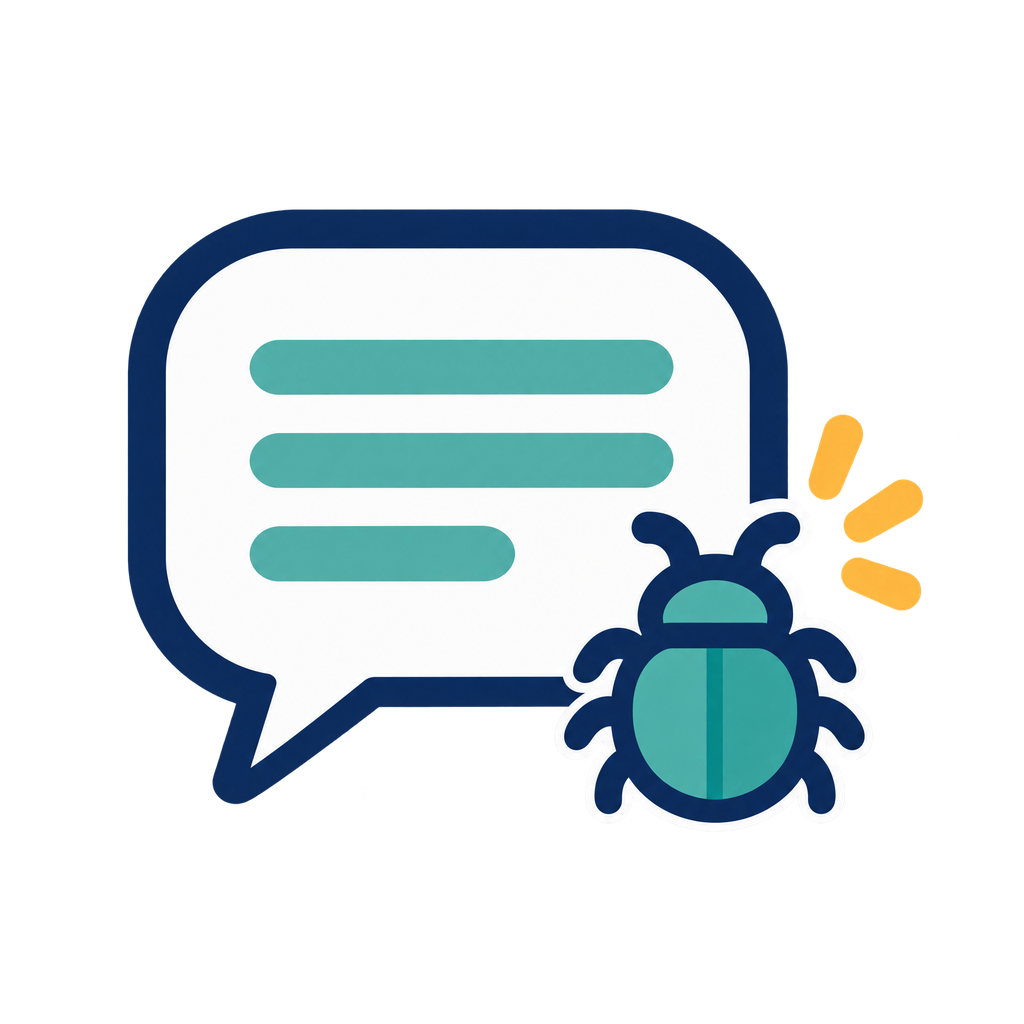
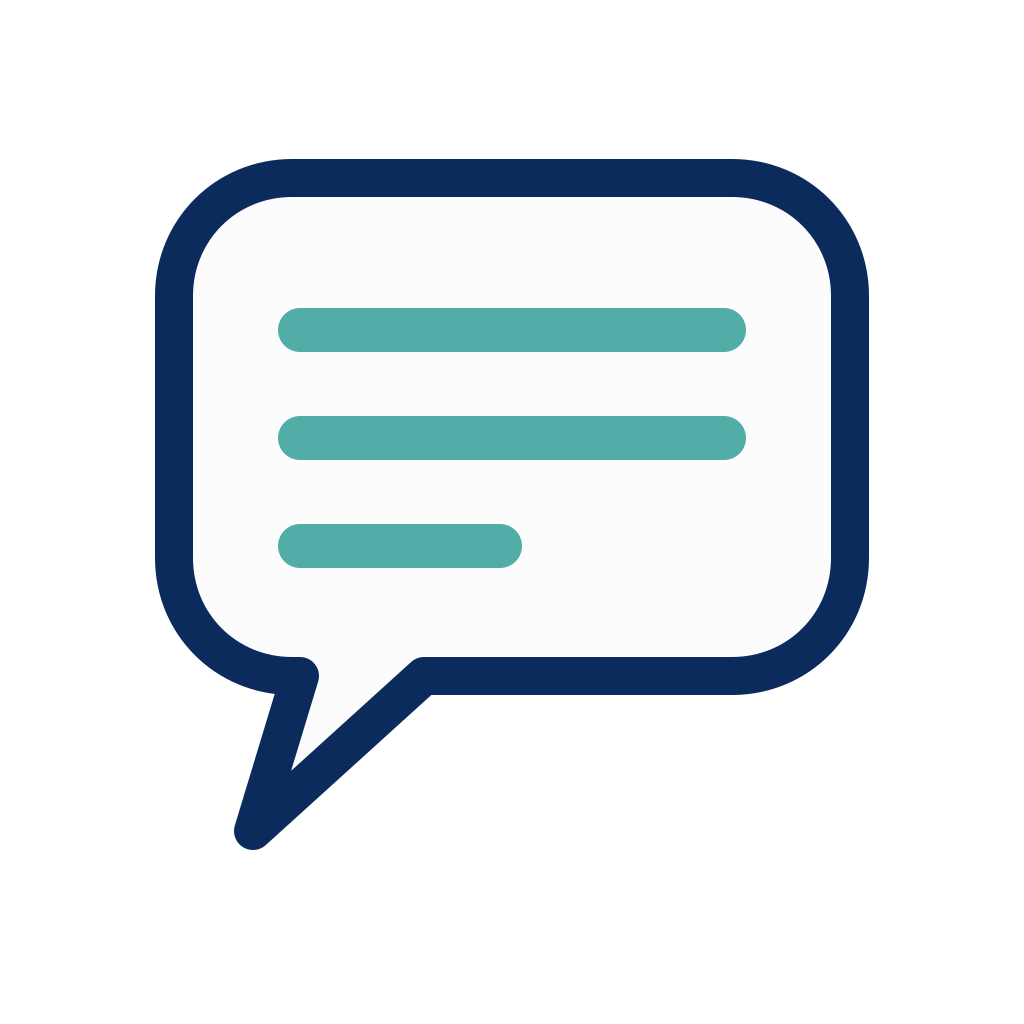
Add files via upload

Changed region(s): [[0.125, 0.1562, 0.9062, 0.8438]]

diff --git a/index.html b/index.html
@@ -62,7 +62,7 @@
         <a href="https://github.com/riryo3/DialMatrix/releases" target="_blank" rel="noopener">
           <img class="link-icon" src="dialmatrix.png" alt="DialMatrix">
           <div class="link-content">
-            <span class="link-title">DialMatrix</span>
+            <span class="link-title">DialMatrix (for Mac)</span>
             <small>Rev-O-mate用アプリ ダウンロード（GitHub Releases）</small>
           </div>
         </a>
@@ -72,21 +72,6 @@
           <img class="link-icon invert-dark" src="sewing.png" alt="">
           <div class="link-content">
             <span class="link-title">ハンドメイド出品価格計算ツール</span>
-          </div>
-        </a>
-      </li>
-    </ul>
-  </section>
-
-  <section class="group">
-    <h3>報告・フィードバック</h3>
-    <ul class="links">
-      <li>
-        <a href="https://z.wikiwiki.jp/o00ashp1hmarqyp7/" target="_blank" rel="noopener">
-          <img class="link-icon" src="ryota-report-board-symbol.png" alt="">
-          <div class="link-content">
-            <span class="link-title">リョータへの報告板</span>
-            <small>ゲーム・Webアプリの不具合報告やご意見はこちら</small>
           </div>
         </a>
       </li>
@@ -124,6 +109,15 @@
           <img class="link-icon invert-dark" src="github.png" alt="">
           <div class="link-content">
             <span class="link-title">GitHub</span>
+          </div>
+        </a>
+      </li>
+      <li>
+        <a href="https://z.wikiwiki.jp/o00ashp1hmarqyp7/" target="_blank" rel="noopener">
+          <img class="link-icon" src="ryota-report-board-symbol.png" alt="">
+          <div class="link-content">
+            <span class="link-title">リョータへの報告板:Notes for Ryota</span>
+            <small>ゲーム・Webアプリの不具合報告やご意見はこちら</small>
           </div>
         </a>
       </li>
